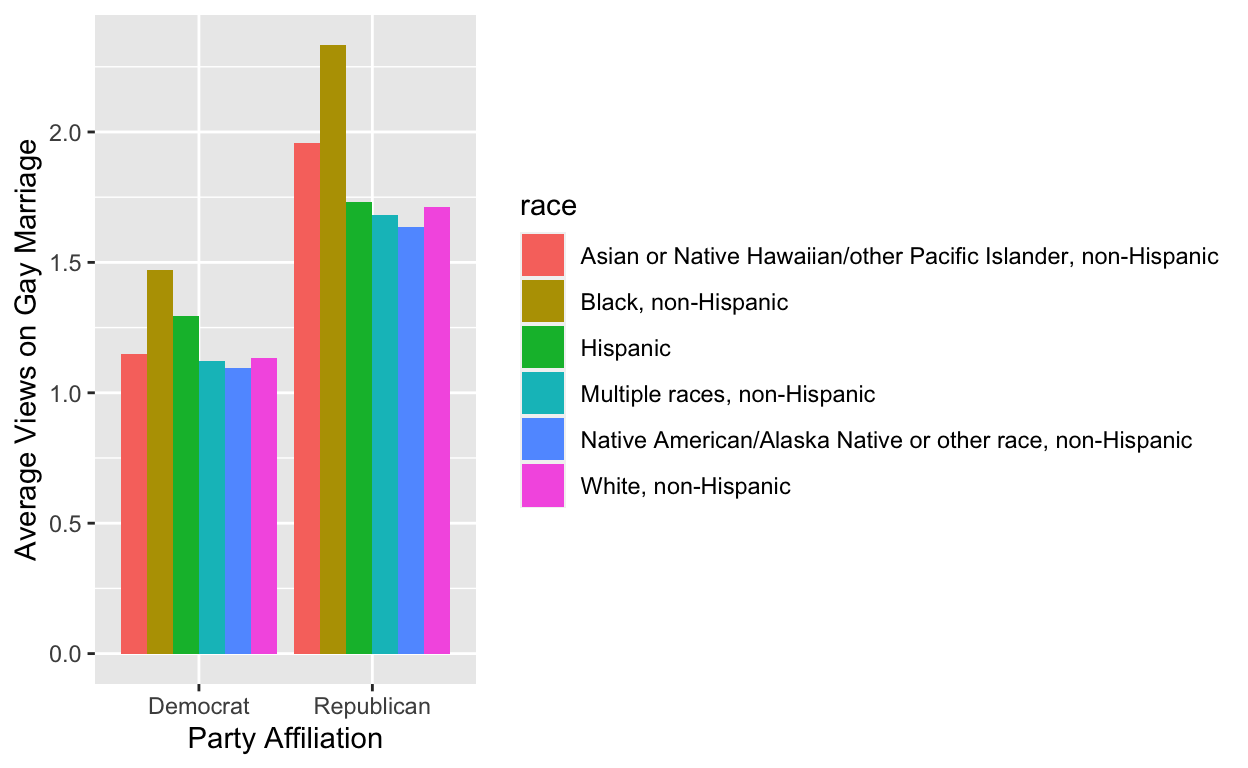
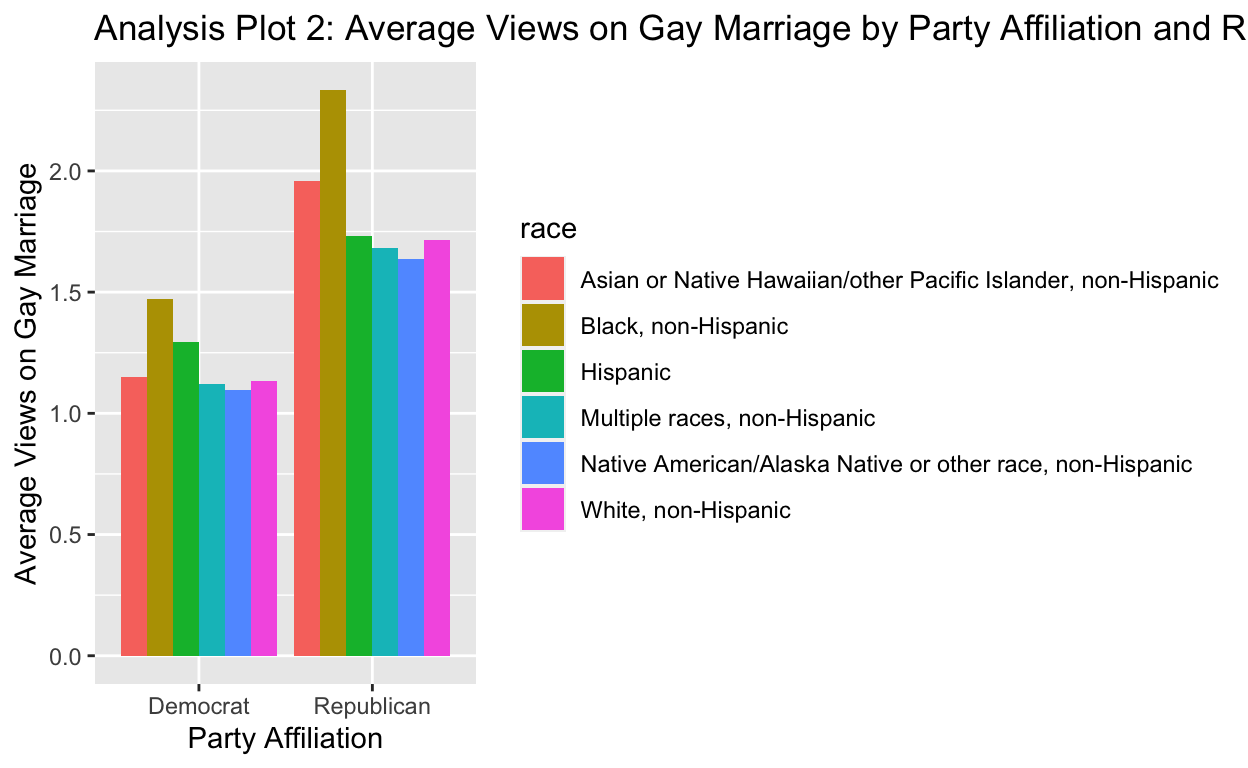
h

diff --git a/index.html b/index.html
@@ -1543,14 +1543,14 @@ code span.wa { color: #5e5e5e; font-style: italic; } /* Warning */
 </div>
 
 <div class="d-article">
-<p>INTRODUCTION:</p>
+<p>#INTRODUCTION:</p>
 <pre><code>My research question is: “Do Democrat and Republican views on 5 major social issues differ by racial group?” My hypothesis is that yes, Democrat and Republican views on 5 major social issues will differ by racial group. For this project, the five key social issues I am investigating are abortion, LGBTQ+ rights, immigration, the environment, and the economy. The racial groups I am investigating are “White, non-Hispanic,” “Black, non-Hispanic,” “Hispanic,” “Asian or Native Hawaiian/other Pacific Islander, non-Hispanic,” and “Multiple races, non-Hispanic.” Additionally, I will use the two major parties, Democrats and Republicans, for my analysis. A lot of public opinion research collects respondents’ race, and responses are often analyzed through that lens. Given the history of racial polarization in the United States, analyzing different racial groups’ opinions can reveal interesting contrasts. However, I have not observed many analyses on racial differences within party groups. This is nonetheless significant, given that politicians spend considerable time targeting key racial demographics in elections. This analysis is particularly relevant given the upcoming presidential election in 2024. Additionally, the United States population is rapidly diversifying, so politicians will have no choice but to identify the needs and values of key racial demographic groups. Party players will no longer be able to take advantage of the fact that certain racial groups have historically voted for their party. I hope that my analysis will reveal nuances within party lines and across racial groups that may inspire more comprehensive research in this area. </code></pre>
 <p>DATA:</p>
 <p>My data comes from the American National Election Studies 2020 Time Series study. This source is a public opinion survey of over 8,000 Americans in 2020 about a number of different topics. Party affiliation and race are self-reported in the survey.</p>
 <p>I am measuring respondents’ views on my five key social issues based on the following survey questions.</p>
 <p>Abortion
 Question: There has been some discussion about abortion during recent years. Which one of the opinions on this page best agrees with your view?
-Response options: 1 (By law, abortion should never be permitted) through 5 (By law, a woman should always be able to obtain an abortion as a matter of personal choice).</p>
+Response options: 1 (By law, abortion should never be permitted) through 4 (By law, a woman should always be able to obtain an abortion as a matter of personal choice).</p>
 <p>LGBTQ+ Rights
 Question: Which comes closest to your view [on gay marriage]? You can just tell me the number of your choice.
 Response options: 1 (Gay and lesbian couples should be allowed to legally marry) through 3 (There should be no legal recognition of gay or lesbian couples’ relationship).</p>
@@ -1686,6 +1686,7 @@ Response options: 1(Very good) through 5 (Very bad).</p>
 # ℹ 6 more variables: environment_views &lt;dbl&gt;, economy_views &lt;dbl&gt;,
 #   party &lt;chr&gt;, education_level &lt;chr&gt;, gender &lt;chr&gt;, race &lt;chr&gt;</code></pre>
 </div>
+<p>This Outcome of Interest 1 plot visualizes the counts of respondents who answered 1 - 4 when asked “There has been some discussion about abortion during recent years. Which one of the opinions on this page best agrees with your view?” This plot demonstrates that, regardless of party or race, most respondents chose 4 indicating that they do support a woman’s right to bodily autonomy.</p>
 <div class="layout-chunk" data-layout="l-body">
 <div class="sourceCode">
 <pre class="sourceCode r"><code class="sourceCode r"><span><span class='va'>voting_trends_dependent_abortion</span> <span class='op'>&lt;-</span> <span class='va'>voting_trends</span> <span class='op'>|&gt;</span></span>
@@ -1700,6 +1701,7 @@ Response options: 1(Very good) through 5 (Very bad).</p>
 </div>
 <p><img src="index_files/figure-html5/unnamed-chunk-5-1.png" width="624" /></p>
 </div>
+<p>This Outcome of Interest 2 plot visualizes the counts of respondents who answered 1 - 3 when asked “Which comes closest to your view [on gay marriage]?” This plot demonstrates that, regardless of party or race, most respondents chose 1 which suggests that they believe gay and lesbian couples should indeed be allowed to marry.</p>
 <div class="layout-chunk" data-layout="l-body">
 <div class="sourceCode">
 <pre class="sourceCode r"><code class="sourceCode r"><span><span class='va'>voting_trends_dependent_lgbtq</span> <span class='op'>&lt;-</span> <span class='va'>voting_trends</span> <span class='op'>|&gt;</span></span>
@@ -1714,6 +1716,8 @@ Response options: 1(Very good) through 5 (Very bad).</p>
 </div>
 <p><img src="index_files/figure-html5/unnamed-chunk-6-1.png" width="624" /></p>
 </div>
+<p>This Outcome of Interest 3 plot shows the number of respondents who answered 1 - 4 when asked “Which comes closest to your view about what government policy should be toward unauthorized immigrants now living in the United States?” This plot shows that, without our key independent variables of race and party, most respondents chose 3 which indicates that they believe the US should “Allow unauthorized immigrants to remain in US &amp; eventually
+qualify for citizenship but only if they meet requirements.”</p>
 <div class="layout-chunk" data-layout="l-body">
 <div class="sourceCode">
 <pre class="sourceCode r"><code class="sourceCode r"><span><span class='va'>voting_trends_dependent_immigration</span> <span class='op'>&lt;-</span> <span class='va'>voting_trends</span> <span class='op'>|&gt;</span></span>
@@ -1728,6 +1732,7 @@ Response options: 1(Very good) through 5 (Very bad).</p>
 </div>
 <p><img src="index_files/figure-html5/unnamed-chunk-7-1.png" width="624" /></p>
 </div>
+<p>This Outcome of Interest 4 plot shows the number of respondents who answered 1 - 7 when asked “Where would you place yourself on this scale, or haven’t you thought much about this?” when asked about the tradeoff between supporting the environment and supporting businesses. This plot shows that, without our key independent variables of race and party, most respondents chose 1 which shows they believe that “Tougher regulations on business [are] needed to protect environment.”</p>
 <div class="layout-chunk" data-layout="l-body">
 <div class="sourceCode">
 <pre class="sourceCode r"><code class="sourceCode r"><span><span class='va'>voting_trends_dependent_environment</span> <span class='op'>&lt;-</span> <span class='va'>voting_trends</span> <span class='op'>|&gt;</span></span>
@@ -1742,6 +1747,7 @@ Response options: 1(Very good) through 5 (Very bad).</p>
 </div>
 <p><img src="index_files/figure-html5/unnamed-chunk-8-1.png" width="624" /></p>
 </div>
+<p>Finally, this Outcome of Interest 5 plot depicts the number of respondents who answered 1 - 5 when asked “What do you think about the state of the economy these days in the United States? Would you say the state of the economy is very good,good, neither good nor bad, bad, or very bad?” This plot shows that answers ranged widely, but most respondents chose 4 regardless of race or party, which shows that they believe the current state of economy is “bad.” Note that this survey was taken in 2020 during a time of significant social and economic turmoil in the United States (and the world) due to the COVID-19 pandemic and racial tensions.</p>
 <div class="layout-chunk" data-layout="l-body">
 <div class="sourceCode">
 <pre class="sourceCode r"><code class="sourceCode r"><span><span class='va'>voting_trends_dependent_economy</span> <span class='op'>&lt;-</span> <span class='va'>voting_trends</span> <span class='op'>|&gt;</span></span>
@@ -1764,8 +1770,8 @@ Response options: 1(Very good) through 5 (Very bad).</p>
 </div>
 <p><img src="index_files/figure-html5/unnamed-chunk-10-1.png" width="624" /></p>
 </div>
-<p>RESULTS:
-My results include a table and bar plots of respondents’ average views on abortion by party and racial group.</p>
+<p>RESULTS:</p>
+<p>My results include a table and bar plots of respondents’ average views on abortion by party and racial group, as well as regressions of of each social issue with race, party, and the confounders of education level and gender.</p>
 <div class="layout-chunk" data-layout="l-body">
 <div class="sourceCode">
 <pre class="sourceCode r"><code class="sourceCode r"><span><span class='va'>voting_tibble</span> <span class='op'>&lt;-</span> <span class='va'>voting_trends</span> <span class='op'>|&gt;</span></span>
@@ -1913,63 +1919,96 @@ My results include a table and bar plots of respondents’ average views on abor
 </tbody>
 </table>
 </div>
-<p>This first shows respondents’ average views on abortion for each party by racial group. Views on abortion are measured on a scale of 0-4, with 0 meaning “By law, abortion should never be permitted,” and 4 meaning “By law, a woman should always be able to obtain an abortion
-as a matter of personal choice.”</p>
+<p>Analysis Plot 1 shows respondents’ average views on abortion for each party by racial group and party. COME BACK AND EXPLAIN EACH OF THESE.</p>
 <div class="layout-chunk" data-layout="l-body">
 <div class="sourceCode">
 <pre class="sourceCode r"><code class="sourceCode r"><span><span class='va'>abortion_plot</span> <span class='op'>&lt;-</span> <span class='va'>voting_tibble</span> <span class='op'>|&gt;</span></span>
 <span>  <span class='fu'><a href='https://ggplot2.tidyverse.org/reference/ggplot.html'>ggplot</a></span><span class='op'>(</span>mapping <span class='op'>=</span> <span class='fu'><a href='https://ggplot2.tidyverse.org/reference/aes.html'>aes</a></span><span class='op'>(</span>x <span class='op'>=</span> <span class='va'>party</span>, y <span class='op'>=</span> <span class='va'>avg_abortion</span>, fill <span class='op'>=</span> <span class='va'>race</span><span class='op'>)</span><span class='op'>)</span> <span class='op'>+</span></span>
 <span>  <span class='fu'><a href='https://ggplot2.tidyverse.org/reference/geom_bar.html'>geom_col</a></span><span class='op'>(</span>position <span class='op'>=</span> <span class='st'>"dodge"</span><span class='op'>)</span> <span class='op'>+</span></span>
 <span>  <span class='fu'><a href='https://ggplot2.tidyverse.org/reference/labs.html'>labs</a></span><span class='op'>(</span>x <span class='op'>=</span> <span class='st'>"Party Affiliation"</span>,</span>
-<span>       y <span class='op'>=</span> <span class='st'>"Average Views on Abortion"</span><span class='op'>)</span> </span>
+<span>       y <span class='op'>=</span> <span class='st'>"Average Views on Abortion"</span>,</span>
+<span>       title <span class='op'>=</span> <span class='st'>"Analysis Plot 1: Average Views on Abortion by Party Affiliation and Racial Group"</span><span class='op'>)</span> </span>
 <span><span class='va'>abortion_plot</span></span></code></pre>
 </div>
 <p><img src="index_files/figure-html5/unnamed-chunk-12-1.png" width="624" /></p>
 </div>
+<p>Analysis Plot 2 shows respondents’ average views on gay marriage for each party by racial group and party.</p>
 <div class="layout-chunk" data-layout="l-body">
 <div class="sourceCode">
 <pre class="sourceCode r"><code class="sourceCode r"><span><span class='va'>lgbtq_plot</span> <span class='op'>&lt;-</span> <span class='va'>voting_tibble</span> <span class='op'>|&gt;</span></span>
 <span>  <span class='fu'><a href='https://ggplot2.tidyverse.org/reference/ggplot.html'>ggplot</a></span><span class='op'>(</span>mapping <span class='op'>=</span> <span class='fu'><a href='https://ggplot2.tidyverse.org/reference/aes.html'>aes</a></span><span class='op'>(</span>x <span class='op'>=</span> <span class='va'>party</span>, y <span class='op'>=</span> <span class='va'>avg_lgbtq</span>, fill <span class='op'>=</span> <span class='va'>race</span><span class='op'>)</span><span class='op'>)</span> <span class='op'>+</span></span>
 <span>  <span class='fu'><a href='https://ggplot2.tidyverse.org/reference/geom_bar.html'>geom_col</a></span><span class='op'>(</span>position <span class='op'>=</span> <span class='st'>"dodge"</span><span class='op'>)</span> <span class='op'>+</span></span>
 <span>  <span class='fu'><a href='https://ggplot2.tidyverse.org/reference/labs.html'>labs</a></span><span class='op'>(</span>x <span class='op'>=</span> <span class='st'>"Party Affiliation"</span>,</span>
-<span>       y <span class='op'>=</span> <span class='st'>"Average Views on Gay Marriage"</span><span class='op'>)</span></span>
+<span>       y <span class='op'>=</span> <span class='st'>"Average Views on Gay Marriage"</span>,</span>
+<span>       title <span class='op'>=</span> <span class='st'>"Analysis Plot 2: Average Views on Gay Marriage by Party Affiliation and Racial Group"</span><span class='op'>)</span></span>
 <span><span class='va'>lgbtq_plot</span></span></code></pre>
 </div>
 <p><img src="index_files/figure-html5/unnamed-chunk-13-1.png" width="624" /></p>
 </div>
+<p>Analysis Plot 3 shows respondents’ average views on immigration for each party by racial group and party.</p>
 <div class="layout-chunk" data-layout="l-body">
 <div class="sourceCode">
 <pre class="sourceCode r"><code class="sourceCode r"><span><span class='va'>immigration_plot</span> <span class='op'>&lt;-</span> <span class='va'>voting_tibble</span> <span class='op'>|&gt;</span></span>
 <span>  <span class='fu'><a href='https://ggplot2.tidyverse.org/reference/ggplot.html'>ggplot</a></span><span class='op'>(</span>mapping <span class='op'>=</span> <span class='fu'><a href='https://ggplot2.tidyverse.org/reference/aes.html'>aes</a></span><span class='op'>(</span>x <span class='op'>=</span> <span class='va'>party</span>, y <span class='op'>=</span> <span class='va'>avg_immigration</span>, fill <span class='op'>=</span> <span class='va'>race</span><span class='op'>)</span><span class='op'>)</span> <span class='op'>+</span></span>
 <span>  <span class='fu'><a href='https://ggplot2.tidyverse.org/reference/geom_bar.html'>geom_col</a></span><span class='op'>(</span>position <span class='op'>=</span> <span class='st'>"dodge"</span><span class='op'>)</span> <span class='op'>+</span></span>
 <span>  <span class='fu'><a href='https://ggplot2.tidyverse.org/reference/labs.html'>labs</a></span><span class='op'>(</span>x <span class='op'>=</span> <span class='st'>"Party Affiliation"</span>,</span>
-<span>       y <span class='op'>=</span> <span class='st'>"Average Views on Immigration"</span><span class='op'>)</span></span>
+<span>       y <span class='op'>=</span> <span class='st'>"Average Views on Immigration"</span>,</span>
+<span>       title <span class='op'>=</span> <span class='st'>"Analysis Plot 3: Average Views on Immigration by Party Affiliation and Racial Group"</span><span class='op'>)</span></span>
 <span><span class='va'>immigration_plot</span></span></code></pre>
 </div>
 <p><img src="index_files/figure-html5/unnamed-chunk-14-1.png" width="624" /></p>
 </div>
+<p>Analysis Plot 4 shows respondents’ average views on the environment for each party by racial group and party.</p>
 <div class="layout-chunk" data-layout="l-body">
 <div class="sourceCode">
 <pre class="sourceCode r"><code class="sourceCode r"><span><span class='va'>environment_plot</span> <span class='op'>&lt;-</span> <span class='va'>voting_tibble</span> <span class='op'>|&gt;</span></span>
 <span>  <span class='fu'><a href='https://ggplot2.tidyverse.org/reference/ggplot.html'>ggplot</a></span><span class='op'>(</span>mapping <span class='op'>=</span> <span class='fu'><a href='https://ggplot2.tidyverse.org/reference/aes.html'>aes</a></span><span class='op'>(</span>x <span class='op'>=</span> <span class='va'>party</span>, y <span class='op'>=</span> <span class='va'>avg_environment</span>, fill <span class='op'>=</span> <span class='va'>race</span><span class='op'>)</span><span class='op'>)</span> <span class='op'>+</span></span>
 <span>  <span class='fu'><a href='https://ggplot2.tidyverse.org/reference/geom_bar.html'>geom_col</a></span><span class='op'>(</span>position <span class='op'>=</span> <span class='st'>"dodge"</span><span class='op'>)</span> <span class='op'>+</span></span>
 <span>  <span class='fu'><a href='https://ggplot2.tidyverse.org/reference/labs.html'>labs</a></span><span class='op'>(</span>x <span class='op'>=</span> <span class='st'>"Party Affiliation"</span>,</span>
-<span>       y <span class='op'>=</span> <span class='st'>"Average Views on the Environment"</span><span class='op'>)</span></span>
+<span>       y <span class='op'>=</span> <span class='st'>"Average Views on the Environment"</span>,</span>
+<span>       title <span class='op'>=</span> <span class='st'>"Analysis Plot 4: Average Views on the Environment by Party Affiliation and Racial Group"</span><span class='op'>)</span></span>
 <span><span class='va'>environment_plot</span></span></code></pre>
 </div>
 <p><img src="index_files/figure-html5/unnamed-chunk-15-1.png" width="624" /></p>
 </div>
+<p>Analysis Plot 5 shows respondents’ average views on the economy for each party by racial group and party.</p>
 <div class="layout-chunk" data-layout="l-body">
 <div class="sourceCode">
 <pre class="sourceCode r"><code class="sourceCode r"><span><span class='va'>economy_plot</span> <span class='op'>&lt;-</span> <span class='va'>voting_tibble</span> <span class='op'>|&gt;</span></span>
 <span>  <span class='fu'><a href='https://ggplot2.tidyverse.org/reference/ggplot.html'>ggplot</a></span><span class='op'>(</span>mapping <span class='op'>=</span> <span class='fu'><a href='https://ggplot2.tidyverse.org/reference/aes.html'>aes</a></span><span class='op'>(</span>x <span class='op'>=</span> <span class='va'>party</span>, y <span class='op'>=</span> <span class='va'>avg_economy</span>, fill <span class='op'>=</span> <span class='va'>race</span><span class='op'>)</span><span class='op'>)</span> <span class='op'>+</span></span>
 <span>  <span class='fu'><a href='https://ggplot2.tidyverse.org/reference/geom_bar.html'>geom_col</a></span><span class='op'>(</span>position <span class='op'>=</span> <span class='st'>"dodge"</span><span class='op'>)</span> <span class='op'>+</span></span>
 <span>  <span class='fu'><a href='https://ggplot2.tidyverse.org/reference/labs.html'>labs</a></span><span class='op'>(</span>x <span class='op'>=</span> <span class='st'>"Party Affiliation"</span>,</span>
-<span>       y <span class='op'>=</span> <span class='st'>"Average Views on the Economy"</span><span class='op'>)</span></span>
+<span>       y <span class='op'>=</span> <span class='st'>"Average Views on the Economy"</span>,</span>
+<span>       title <span class='op'>=</span> <span class='st'>"Analysis Plot 5: Average Views on the Economy by Party Affiliation and Racial Group"</span><span class='op'>)</span></span>
 <span><span class='va'>economy_plot</span></span></code></pre>
 </div>
 <p><img src="index_files/figure-html5/unnamed-chunk-16-1.png" width="624" /></p>
 </div>
+<p>This regression shows abortion views against the main independent variables race and party, as well as confounders of education level and gender. The intercept coefficient here 3.73723 shows the average view of Asian American Democrats with an academic Associate’s degree who are women on the issue of abortion. You can find the other average view values by comparing the coefficient for each racial group to this one. Since I am mainly looking at party and race, I will outline those key outcomes while controlling for education (bachelor’s degree) and gender here.</p>
+<p>The average view of Black Democrats with a bachelor’s degree who are women is 3.60258. For men, it’s 3.57298.
+Women - sum(3.73723 asian + 0.03998 bachelor + -0.17463 black race)
+Men - sum((3.73723 asian + 0.03998 bachelor + -0.17463 black race + -0.02960 men)</p>
+<p>The average view of Black Republicans with a bachelor’s degree who are women is 2.47573. For men, it’s
+Women - sum(3.73723 asian + 0.03998 bachelor + -0.17463 black race + -1.12685 republican)</p>
+**not sure if i did education correctly. do i just add in another level of education?
+<div class="layout-chunk" data-layout="l-body">
+<div class="sourceCode">
+<pre class="sourceCode r"><code class="sourceCode r"><span><span class='fu'><a href='https://rdrr.io/r/base/sum.html'>sum</a></span><span class='op'>(</span><span class='fl'>3.73723</span> <span class='op'>+</span> <span class='fl'>0.03998</span> <span class='op'>+</span> <span class='op'>-</span><span class='fl'>1.12685</span> <span class='op'>+</span> <span class='op'>-</span><span class='fl'>0.17463</span><span class='op'>)</span></span></code></pre>
+</div>
+<pre><code>[1] 2.47573</code></pre>
+</div>
+<p>The average view of Black Democrats while controlling for education and gender is BLANK. (remove the associates degree and gender, add race)
+- remove gender
+- remove education
+- add black race
+- add democrat party
+if I remove all that, i’ll just have what I did in my chart won’t I? Isn’t the point of doing the regression to include the confounders? i just won’t include all educational levels then. black dems 3.5 on average not controlling for other factors</p>
+<p>Average view of Black Democrats with a bachelor’s degree who are women is blank.
+Average view of bla bla men is blank.</p>
+<p>The average view of Black Republicans is BLANK</p>
+<p>The average view of Hispanic Democrats is BLANK. The average view of Hispanic Republicans is BLANK. The average view of multiracial Democrats is BLANK. The average view of multiracial Republicans is BLANK. The average view of Native American Democrats is BLANK. The average view of Native American Republicans is BLANK. The average view of White Democrats is BLANK. Finally, the average view of white Republicans is BLANK</p>
+<p>this is statistically significant</p>
+<p>look at the prt thing to see if it’s statistically significant</p>
 <div class="layout-chunk" data-layout="l-body">
 <div class="sourceCode">
 <pre class="sourceCode r"><code class="sourceCode r"><span><span class='va'>abortion_regression</span> <span class='op'>&lt;-</span> <span class='fu'><a href='https://rdrr.io/r/stats/lm.html'>lm</a></span><span class='op'>(</span><span class='va'>abortion_views</span> <span class='op'>~</span> <span class='va'>race</span> <span class='op'>+</span> <span class='va'>party</span> <span class='op'>+</span> <span class='va'>education_level</span> <span class='op'>+</span> <span class='va'>gender</span>, data <span class='op'>=</span> <span class='va'>voting_trends</span><span class='op'>)</span></span>
@@ -2495,7 +2534,7 @@ F-statistic: 71.91 on 14 and 2589 DF,  p-value: &lt; 2.2e-16</code></pre>
 </div>
 <p>CONCLUSION:</p>
 <p>***MAKE SURE TO CITE SOURCES</p>
-<div class="sourceCode" id="cb11"><pre class="sourceCode r distill-force-highlighting-css"><code class="sourceCode r"></code></pre></div>
+<div class="sourceCode" id="cb12"><pre class="sourceCode r distill-force-highlighting-css"><code class="sourceCode r"></code></pre></div>
 <!--radix_placeholder_article_footer-->
 <!--/radix_placeholder_article_footer-->
 </div>
